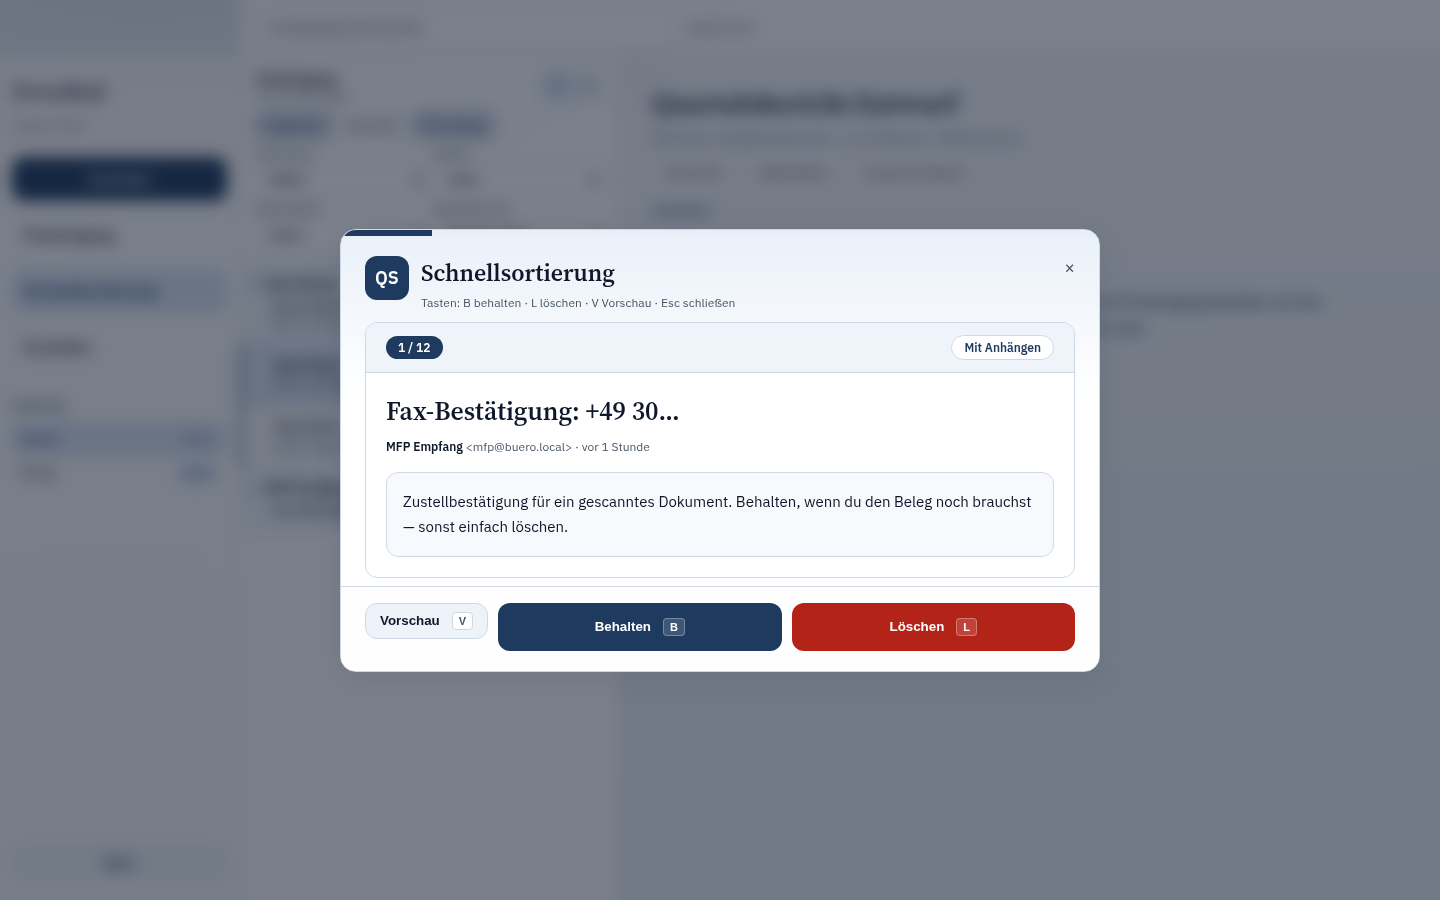
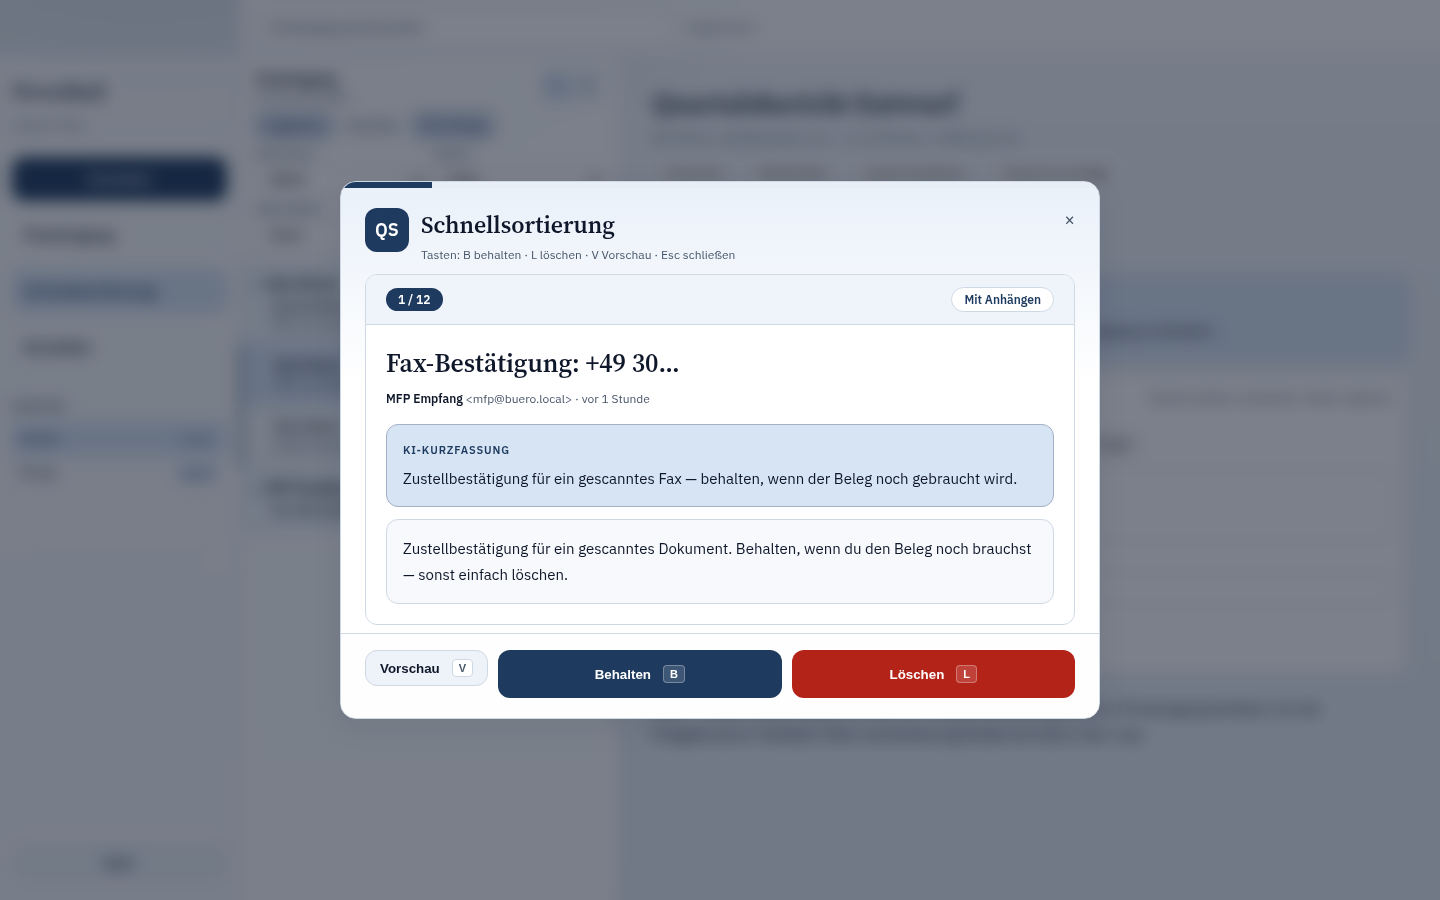
docs(screenshots): refresh GitHub images for AI assistant and CardDAV auth
Update preview mock and regenerate inbox, Quick Sort, and contacts
screenshots showing KI summary, reply variants, and Basic-Auth CardDAV.

Changed region(s): [[0.2188, 0.1867, 0.7812, 0.8089], [0.6562, 0.3111, 0.7188, 0.4044]]

diff --git a/docs/screenshots/preview.html b/docs/screenshots/preview.html
@@ -368,13 +368,42 @@
             <span class="chip">Antworten</span>
             <span class="chip">Weiterleiten</span>
             <span class="chip">Zusammenfassen</span>
+            <span class="chip">Antwortvorschläge</span>
           </div>
           <div style="margin-top:16px">
             <div class="muted" style="font-size:11px; text-transform:uppercase; letter-spacing:.08em; font-weight:600">Anhänge</div>
             <span class="chip">Q3-Bericht.pdf (420 KB)</span>
             <span class="chip">zahlen.xlsx (88 KB)</span>
           </div>
-          <p style="margin-top:28px; max-width:720px; line-height:1.7; font-size:15px">
+          <div class="snippet-box" style="margin-top:16px; background:var(--nova-accent-soft); border-color:color-mix(in srgb, var(--nova-accent) 25%, var(--nova-border))">
+            <div class="muted" style="font-size:11px; text-transform:uppercase; letter-spacing:.08em; font-weight:600; color:var(--nova-accent)">Zusammenfassung · ollama:qwen2.5:1.5b</div>
+            <p style="margin:8px 0 0; line-height:1.55; font-size:14px">
+              Alex schickt Q3-Zahlen und bittet, die Mail bis zur Freigabe im Posteingang zu behalten.
+            </p>
+          </div>
+          <div style="margin-top:14px; border:1px solid var(--nova-border); border-radius:var(--nova-radius-md); padding:14px; background:var(--nova-surface)">
+            <div style="display:flex;justify-content:space-between;gap:8px;align-items:center;margin-bottom:10px">
+              <strong style="font-size:14px">Antwort-Assistent</strong>
+              <span class="muted" style="font-size:12px">Variante wählen, bearbeiten, Fakten ergänzen</span>
+            </div>
+            <div style="display:flex;flex-wrap:wrap;gap:8px;margin-bottom:10px">
+              <span class="chip" style="background:var(--nova-accent);color:#fff;border-color:var(--nova-accent)">Variante A · knapp</span>
+              <span class="chip">Variante B · freundlich</span>
+              <span class="chip">Zwei Varianten erzeugen</span>
+            </div>
+            <div class="field" style="min-height:72px;font-size:13px;line-height:1.55;white-space:pre-wrap">Hallo Alex,
+
+danke für die Q3-Unterlagen. Ich behalte die Mail bis zur Freigabe.
+
+Freundliche Grüße</div>
+            <div class="muted" style="font-size:12px;margin:10px 0 6px">Fakten / Vorgaben für die Antwort</div>
+            <div class="field muted" style="font-size:13px">Freigabe bis Freitag, bitte Zoom-Link für Review</div>
+            <div style="display:flex;gap:8px;margin-top:10px">
+              <span class="chip">Mit diesen Fakten neu schreiben</span>
+              <span class="chip" style="background:var(--nova-accent);color:#fff;border-color:var(--nova-accent)">In Antwort übernehmen</span>
+            </div>
+          </div>
+          <p style="margin-top:22px; max-width:720px; line-height:1.7; font-size:15px">
             Hallo — anbei die Q3-Zahlen und die PDF-Zusammenfassung. Bitte im Posteingang
             behalten, bis die Freigabe da ist. Verläufe, Filter und Sortierung findest du links in der Liste.
           </p>
@@ -407,7 +436,13 @@
                 <strong style="color:var(--nova-ink)">MFP Empfang</strong>
                 &lt;mfp@buero.local&gt; · vor 1 Stunde
               </p>
-              <div class="snippet-box">
+              <div class="snippet-box" style="background:var(--nova-accent-soft); border-color:color-mix(in srgb, var(--nova-accent) 25%, var(--nova-border))">
+                <div class="muted" style="font-size:11px; text-transform:uppercase; letter-spacing:.08em; font-weight:600; color:var(--nova-accent)">KI-Kurzfassung</div>
+                <p style="margin:8px 0 0; line-height:1.55; font-size:15px">
+                  Zustellbestätigung für ein gescanntes Fax — behalten, wenn der Beleg noch gebraucht wird.
+                </p>
+              </div>
+              <div class="snippet-box" style="margin-top:12px">
                 Zustellbestätigung für ein gescanntes Dokument. Behalten, wenn du den Beleg noch brauchst —
                 sonst einfach löschen.
               </div>
@@ -516,11 +551,18 @@
             <button class="btn sm" style="margin-top:8px">Einstellungen speichern</button>
           </div>
           <div class="panel">
-            <strong>CardDAV-Server</strong>
+            <strong>CardDAV-Server (gemeinsames Telefonbuch)</strong>
             <p class="muted" style="margin:6px 0">
-              Läuft unter http://127.0.0.1:8765/addressbooks/novamail/ · 3 Kontakte
+              Läuft unter http://192.168.1.20:8765/addressbooks/novamail/ · 3 Kontakte
             </p>
-            <button class="btn secondary sm">CardDAV stoppen</button>
+            <div class="form-grid" style="margin-top:8px">
+              <div class="field">novamail</div>
+              <div class="field">a1b2c3d4e5f6…</div>
+            </div>
+            <p class="muted" style="margin:8px 0 0;font-size:12px">
+              Basic-Auth erforderlich. HTTP im LAN/VPN — nicht ungeschützt ins Internet öffnen.
+            </p>
+            <button class="btn secondary sm" style="margin-top:8px">CardDAV stoppen</button>
           </div>
           <div class="panel">
             <strong>LDAP-Synchronisation</strong>

diff --git a/README.md b/README.md
@@ -27,13 +27,13 @@ NovaMail is a local-first desktop client built with **Tauri 2**, **Rust**, **Rea
 
 ## Screenshots
 
-![Threaded inbox with filters and sort](docs/screenshots/inbox.png)
+![Threaded inbox with AI summary and reply assistant](docs/screenshots/inbox.png)
 
-![Quick Sort triage](docs/screenshots/quick-sort.png)
+![Quick Sort with AI preview summary](docs/screenshots/quick-sort.png)
 
 ![Address book contact editor](docs/screenshots/contacts-carddav.png)
 
-![Address book settings (name order, CardDAV, LDAP)](docs/screenshots/contacts-settings.png)
+![Address book settings (CardDAV Basic auth, LDAP)](docs/screenshots/contacts-settings.png)
 
 More captures: [`docs/screenshots/`](docs/screenshots/).
 

diff --git a/docs/screenshots/README.md b/docs/screenshots/README.md
@@ -4,10 +4,10 @@ Beispiel-UI im aktuellen Design (Dunkelblau/Weiß, Deutsch).
 
 | Datei | Ansicht |
 |------|---------|
-| `inbox.png` | Posteingang mit Verlauf/Baum, Filtern und Sortierung |
-| `quick-sort.png` | Schnellsortierung (Behalten / Löschen / Vorschau) |
+| `inbox.png` | Posteingang + Lesebereich mit KI-Zusammenfassung und Antwort-Assistent |
+| `quick-sort.png` | Schnellsortierung mit KI-Kurzfassung |
 | `contacts-carddav.png` | Adressbuch (Liste + Kontaktmaske; Server/Sync über Zahnrad) |
-| `contacts-settings.png` | Adressbuch-Einstellungen: Namensreihenfolge, CardDAV, LDAP |
+| `contacts-settings.png` | Adressbuch-Einstellungen: Namensreihenfolge, CardDAV (Basic-Auth), LDAP |
 
 Neu erzeugen:
 
